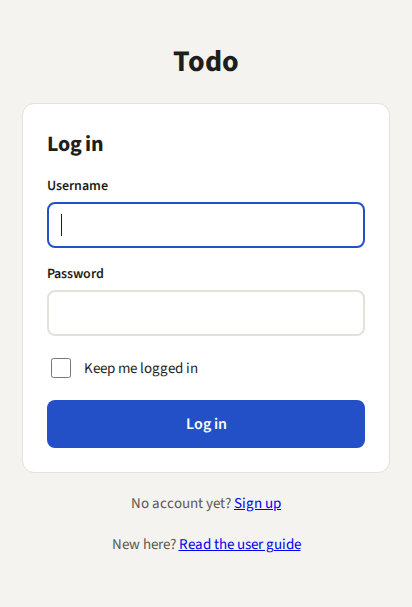
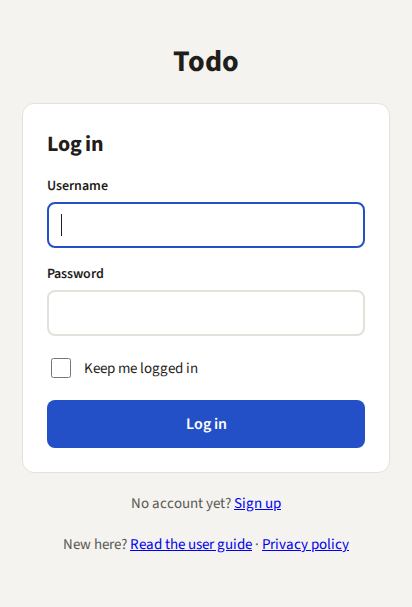
feat: privacy policy at /privacy, linked from the login, sign-up, Account and guide pages

Changed region(s): [[0.1456, 0.8896, 0.8447, 0.9193]]

diff --git a/internal/web/templates/guide.html b/internal/web/templates/guide.html
@@ -1,22 +1,23 @@
-{{/* The user guide (canvas page "2 · Main list", "user guide at /guide").
-     It is public and has no scripts. The text comes from docs/user-guide.md. */}}
+{{/* A page from docs/: the user guide (canvas page "2 · Main list", "user guide at /guide")
+     or the privacy policy ("privacy policy at /privacy"). It is public and has no scripts.
+     The text comes from docs/user-guide.md or docs/privacy-policy.md. */}}
 {{define "guide"}}<!doctype html>
 <html lang="en">
 <head>
 <meta charset="utf-8">
 <meta name="viewport" content="width=device-width, initial-scale=1">
-<title>User guide – Todo</title>
+<title>{{.Title}} – Todo</title>
 <link rel="preconnect" href="https://fonts.googleapis.com">
 <link rel="stylesheet" href="https://fonts.googleapis.com/css2?family=Source+Sans+3:wght@400;600;700&display=swap">
 <link rel="stylesheet" href="/static/app.css">
 </head>
 <body>
 <main class="guide">
-<header class="top guide-top"><p class="guide-brand">Todo</p><a href="/">Open the app →</a></header>
-{{.Intro}}
+<header class="top guide-top"><p class="guide-brand">Todo</p>{{if .PrivacyLink}}<span><a href="/privacy">Privacy policy</a> · <a href="/">Open the app →</a></span>{{else}}<a href="/">Open the app →</a>{{end}}</header>
+{{.Doc.Intro}}
 <nav class="guide-toc" aria-labelledby="guide-toc-title"><p id="guide-toc-title">Contents</p>
-<ol>{{range .Sections}}<li><a href="#{{.ID}}">{{.Title}}</a></li>{{end}}</ol></nav>
-{{.Body}}
+<ol>{{range .Doc.Sections}}<li><a href="#{{.ID}}">{{.Title}}</a></li>{{end}}</ol></nav>
+{{.Doc.Body}}
 </main>
 </body>
 </html>{{end}}

diff --git a/internal/web/templates/auth.html b/internal/web/templates/auth.html
@@ -29,7 +29,7 @@
 </form>
 </div>
 <p class="auth-foot">No account yet? <a href="/signup">Sign up</a></p>
-<p class="auth-foot">New here? <a href="/guide">Read the user guide</a></p>
+<p class="auth-foot">New here? <a href="/guide">Read the user guide</a> · <a href="/privacy">Privacy policy</a></p>
 </main>
 </body>
 </html>
@@ -60,7 +60,7 @@
 </form>
 </div>
 <p class="auth-foot">Already have an account? <a href="/login">Log in</a></p>
-<p class="auth-foot">New here? <a href="/guide">Read the user guide</a></p>
+<p class="auth-foot">New here? <a href="/guide">Read the user guide</a> · <a href="/privacy">Privacy policy</a></p>
 </main>
 </body>
 </html>
@@ -68,7 +68,7 @@
 
 {{define "account"}}{{template "auth-head" "Account"}}
 <main class="account-wrap">
-<div class="account-top"><span><a href="/">← Back to my list</a> · <a href="/guide">User guide</a></span> <form method="post" action="/logout" class="inline-form"><button type="submit" class="link-button">Log out</button></form></div>
+<div class="account-top"><span><a href="/">← Back to my list</a> · <a href="/guide">User guide</a> · <a href="/privacy">Privacy policy</a></span> <form method="post" action="/logout" class="inline-form"><button type="submit" class="link-button">Log out</button></form></div>
 <h1>Account</h1>
 <p class="account-who">Signed in as <strong>{{.Username}}</strong> · member since {{.MemberSince}}</p>
 <section class="auth-card" aria-labelledby="pw-title">

diff --git a/internal/web/privacy_test.go b/internal/web/privacy_test.go
@@ -1,0 +1,73 @@
+package web_test
+
+import (
+	"net/http"
+	"strings"
+	"testing"
+	"testing/fstest"
+
+	"todo/docs"
+	"todo/internal/web"
+)
+
+// The privacy policy (canvas page 2, "privacy policy at /privacy", option A)
+// is public: it opens with no session, with the look of the user guide.
+func TestPrivacyIsPublic(t *testing.T) {
+	env := newTestEnv(t, web.WithGuide(docs.Guide))
+	rec := do(t, env.H, "GET", "/privacy", nil, anon)
+	if rec.Code != http.StatusOK {
+		t.Fatalf("status = %d, want 200", rec.Code)
+	}
+	body := rec.Body.String()
+	assertContains(t, body, "<title>Privacy policy – Todo</title>", `<h1 id="privacy-policy">Privacy policy</h1>`,
+		`<a href="/">Open the app →</a>`, `<p id="guide-toc-title">Contents</p>`,
+		`<li><a href="#who-is-responsible">Who is responsible</a></li>`, `<h2 id="your-rights">Your rights</h2>`,
+		"<table>", "zkostrzewa.dev@gmail.com")
+	assertNotContains(t, body, "<script", `<a href="/privacy">`)
+	if strings.Index(body, `id="guide-toc-title"`) > strings.Index(body, `<h2 id="who-is-responsible">`) {
+		t.Errorf("the contents list must come before the first section")
+	}
+}
+
+// The policy is the same for everyone, so the browser may keep it for an hour.
+func TestPrivacyCacheAndCSP(t *testing.T) {
+	env := newTestEnv(t, web.WithGuide(docs.Guide))
+	rec := do(t, env.H, "GET", "/privacy", nil, anon)
+	if got := rec.Header().Get("Cache-Control"); got != "public, max-age=3600" {
+		t.Errorf("Cache-Control = %q", got)
+	}
+	if got := rec.Header().Get("Content-Security-Policy"); got != wantCSP {
+		t.Errorf("CSP = %q", got)
+	}
+}
+
+// With no docs, or docs without privacy-policy.md, /privacy answers 404 and
+// the guide still works.
+func TestPrivacyMissing(t *testing.T) {
+	if rec := do(t, newTestEnv(t).H, "GET", "/privacy", nil, anon); rec.Code != http.StatusNotFound {
+		t.Errorf("no docs: status %d, want 404", rec.Code)
+	}
+	env := newTestEnv(t, web.WithGuide(fstest.MapFS{"user-guide.md": {Data: []byte("# User guide\n\n## A\n")}}))
+	if rec := do(t, env.H, "GET", "/privacy", nil, anon); rec.Code != http.StatusNotFound {
+		t.Errorf("guide only: status %d, want 404", rec.Code)
+	}
+	if rec := do(t, env.H, "GET", "/guide", nil, anon); rec.Code != http.StatusOK {
+		t.Errorf("guide only: /guide status %d, want 200", rec.Code)
+	}
+	assertNotContains(t, do(t, env.H, "GET", "/guide", nil, anon).Body.String(), `<a href="/privacy">`)
+}
+
+// Option A: the login, sign-up and Account pages and the user guide link the
+// policy. The main list does not.
+func TestPrivacyLinks(t *testing.T) {
+	env := newTestEnv(t, web.WithGuide(docs.Guide))
+	for _, path := range []string{"/login", "/signup"} {
+		assertContains(t, do(t, env.H, "GET", path, nil, anon).Body.String(),
+			`<p class="auth-foot">New here? <a href="/guide">Read the user guide</a> · <a href="/privacy">Privacy policy</a></p>`)
+	}
+	assertContains(t, do(t, env.H, "GET", "/account", nil, nil).Body.String(),
+		`<a href="/">← Back to my list</a> · <a href="/guide">User guide</a> · <a href="/privacy">Privacy policy</a>`)
+	assertContains(t, do(t, env.H, "GET", "/guide", nil, anon).Body.String(),
+		`<span><a href="/privacy">Privacy policy</a> · <a href="/">Open the app →</a></span>`)
+	assertNotContains(t, do(t, env.H, "GET", "/", nil, nil).Body.String(), `href="/privacy"`)
+}

diff --git a/internal/web/server.go b/internal/web/server.go
@@ -33,8 +33,9 @@ var staticFS embed.FS
 type server struct {
 	svc            *todo.Service
 	accounts       *auth.Service
-	guideFS        fs.FS              // user-guide.md and guide-images/; nil means no guide
+	guideFS        fs.FS              // user-guide.md, privacy-policy.md and guide-images/; nil means no guide
 	guide          *guideView         // rendered from guideFS in New
+	privacy        *guideView         // rendered from guideFS in New; nil if it has no privacy-policy.md
 	base           *template.Template // parsed once, never executed; cloned per zone
 	views          sync.Map           // zone name → *template.Template bound to that zone
 	zones          sync.Map           // todo_tz cookie value → *time.Location
@@ -112,12 +113,23 @@ func New(svc *todo.Service, accounts *auth.Service, log *slog.Logger, opts ...Op
 		if s.guide, err = renderGuide(md); err != nil {
 			return nil, err
 		}
+		md, err = fs.ReadFile(s.guideFS, "privacy-policy.md")
+		switch {
+		case errors.Is(err, fs.ErrNotExist):
+		case err != nil:
+			return nil, err
+		default:
+			if s.privacy, err = renderGuide(md); err != nil {
+				return nil, err
+			}
+		}
 	}
 
 	mux := http.NewServeMux()
 	mux.Handle("GET /static/", noDirListing(http.FileServerFS(staticFS)))
 	mux.HandleFunc("GET /guide", s.guidePage)
 	mux.Handle("GET /guide-images/", s.guideImages())
+	mux.HandleFunc("GET /privacy", s.privacyPage)
 	mux.HandleFunc("GET /login", s.loginPage)
 	mux.HandleFunc("POST /login", s.login)
 	mux.HandleFunc("GET /signup", s.signupPage)
@@ -221,7 +233,7 @@ func securityHeaders(next http.Handler) http.Handler {
 		}
 		switch {
 		case strings.HasPrefix(r.URL.Path, "/static/"):
-		case r.URL.Path == "/guide" || strings.HasPrefix(r.URL.Path, "/guide-images/"):
+		case r.URL.Path == "/guide" || r.URL.Path == "/privacy" || strings.HasPrefix(r.URL.Path, "/guide-images/"):
 			h.Set("Cache-Control", "public, max-age=3600") // the same for everyone
 		default:
 			// Private data: the browser must not keep it (for example for Back after logout).

diff --git a/internal/web/guide.go b/internal/web/guide.go
@@ -18,11 +18,12 @@ import (
 )
 
 // WithGuide serves the user guide from fsys: user-guide.md at /guide and the
-// PNG files in guide-images/ at /guide-images/. Without it, both answer 404.
+// PNG files in guide-images/ at /guide-images/. If fsys has
+// privacy-policy.md, it serves that at /privacy. Without it, all answer 404.
 func WithGuide(fsys fs.FS) Option { return func(s *server) { s.guideFS = fsys } }
 
-// guideView is the user guide, rendered once at start (canvas page 2,
-// "user guide at /guide").
+// guideView is the user guide or the privacy policy, rendered once at start
+// (canvas page 2, "user guide at /guide" and "privacy policy at /privacy").
 type guideView struct {
 	Intro    template.HTML  // the title and the text before the first section
 	Sections []guideSection // the level-2 headings, for the contents list
@@ -106,7 +107,24 @@ func (s *server) guidePage(w http.ResponseWriter, r *http.Request) {
 		http.NotFound(w, r)
 		return
 	}
-	s.render(w, r, http.StatusOK, part{"guide", s.guide})
+	s.render(w, r, http.StatusOK, part{"guide", docPage{"User guide", s.guide, s.privacy != nil}})
+}
+
+// docPage is the data of the guide template: a page from docs/.
+type docPage struct {
+	Title       string
+	Doc         *guideView
+	PrivacyLink bool // a link to /privacy in the top line
+}
+
+// privacyPage shows the privacy policy (canvas page 2, "privacy policy at
+// /privacy", option A). It needs no session.
+func (s *server) privacyPage(w http.ResponseWriter, r *http.Request) {
+	if s.privacy == nil {
+		http.NotFound(w, r)
+		return
+	}
+	s.render(w, r, http.StatusOK, part{"guide", docPage{"Privacy policy", s.privacy, false}})
 }
 
 // guideImages serves the screenshots of the guide: PNG files only, no folder

diff --git a/internal/web/guide_test.go b/internal/web/guide_test.go
@@ -132,7 +132,7 @@ func TestGuideLinks(t *testing.T) {
 	env := newTestEnv(t, web.WithGuide(docs.Guide))
 	assertContains(t, do(t, env.H, "GET", "/", nil, nil).Body.String(), ` · <a href="/guide">Help</a> · <a href="/account">Account</a>`)
 	for _, path := range []string{"/login", "/signup"} {
-		assertContains(t, do(t, env.H, "GET", path, nil, anon).Body.String(), `<p class="auth-foot">New here? <a href="/guide">Read the user guide</a></p>`)
+		assertContains(t, do(t, env.H, "GET", path, nil, anon).Body.String(), `<p class="auth-foot">New here? <a href="/guide">Read the user guide</a> · `)
 	}
 	assertContains(t, do(t, env.H, "GET", "/account", nil, nil).Body.String(), `<a href="/">← Back to my list</a> · <a href="/guide">User guide</a>`)
 }

diff --git a/docs/embed.go b/docs/embed.go
@@ -1,9 +1,11 @@
-// Package docs holds the user guide, which the app serves at /guide.
+// Package docs holds the user guide and the privacy policy, which the app
+// serves at /guide and /privacy.
 package docs
 
 import "embed"
 
-// Guide holds user-guide.md and its screenshots in guide-images/.
+// Guide holds user-guide.md and its screenshots in guide-images/, and
+// privacy-policy.md.
 //
-//go:embed user-guide.md guide-images
+//go:embed user-guide.md privacy-policy.md guide-images
 var Guide embed.FS

diff --git a/docs/user-guide.md b/docs/user-guide.md
@@ -22,7 +22,7 @@ There is no email address. If you forget your password, ask the admin of the app
    ends the oldest one.
 3. Click **Log in**.
 
-![The login page](guide-images/login.png "the login page with the fields Username and Password, the box “Keep me logged in”, and the link to Sign up.")
+![The login page](guide-images/login.png "the login page with the fields Username and Password, the box “Keep me logged in”, the link to Sign up, and the links to the user guide and the privacy policy.")
 
 To log out, click **Log out** at the top right of your list.
 
@@ -40,6 +40,9 @@ Click **Account** at the top right of your list. On the Account page you can:
 If you use only the Android app, delete your toodoo account on the web: log in at
 https://toodoo.fly.dev, click **Account**, and type your username to confirm. The Android app
 has no delete button.
+
+The privacy policy at https://toodoo.fly.dev/privacy tells you which data the app stores, why,
+and for how long. The login, sign-up and Account pages link to it.
 
 ## Items
 

diff --git a/README.md b/README.md
@@ -7,6 +7,9 @@ A small todo list for the browser. Everyone has their own account and their own 
 User guide: https://toodoo.fly.dev/guide (no login needed; the text is in
 [docs/user-guide.md](docs/user-guide.md)).
 
+Privacy policy: https://toodoo.fly.dev/privacy (the text is in
+[docs/privacy-policy.md](docs/privacy-policy.md)).
+
 ## What it does
 
 - Add, edit, check off and delete items. Hide the done ones, or clear them all at once.
